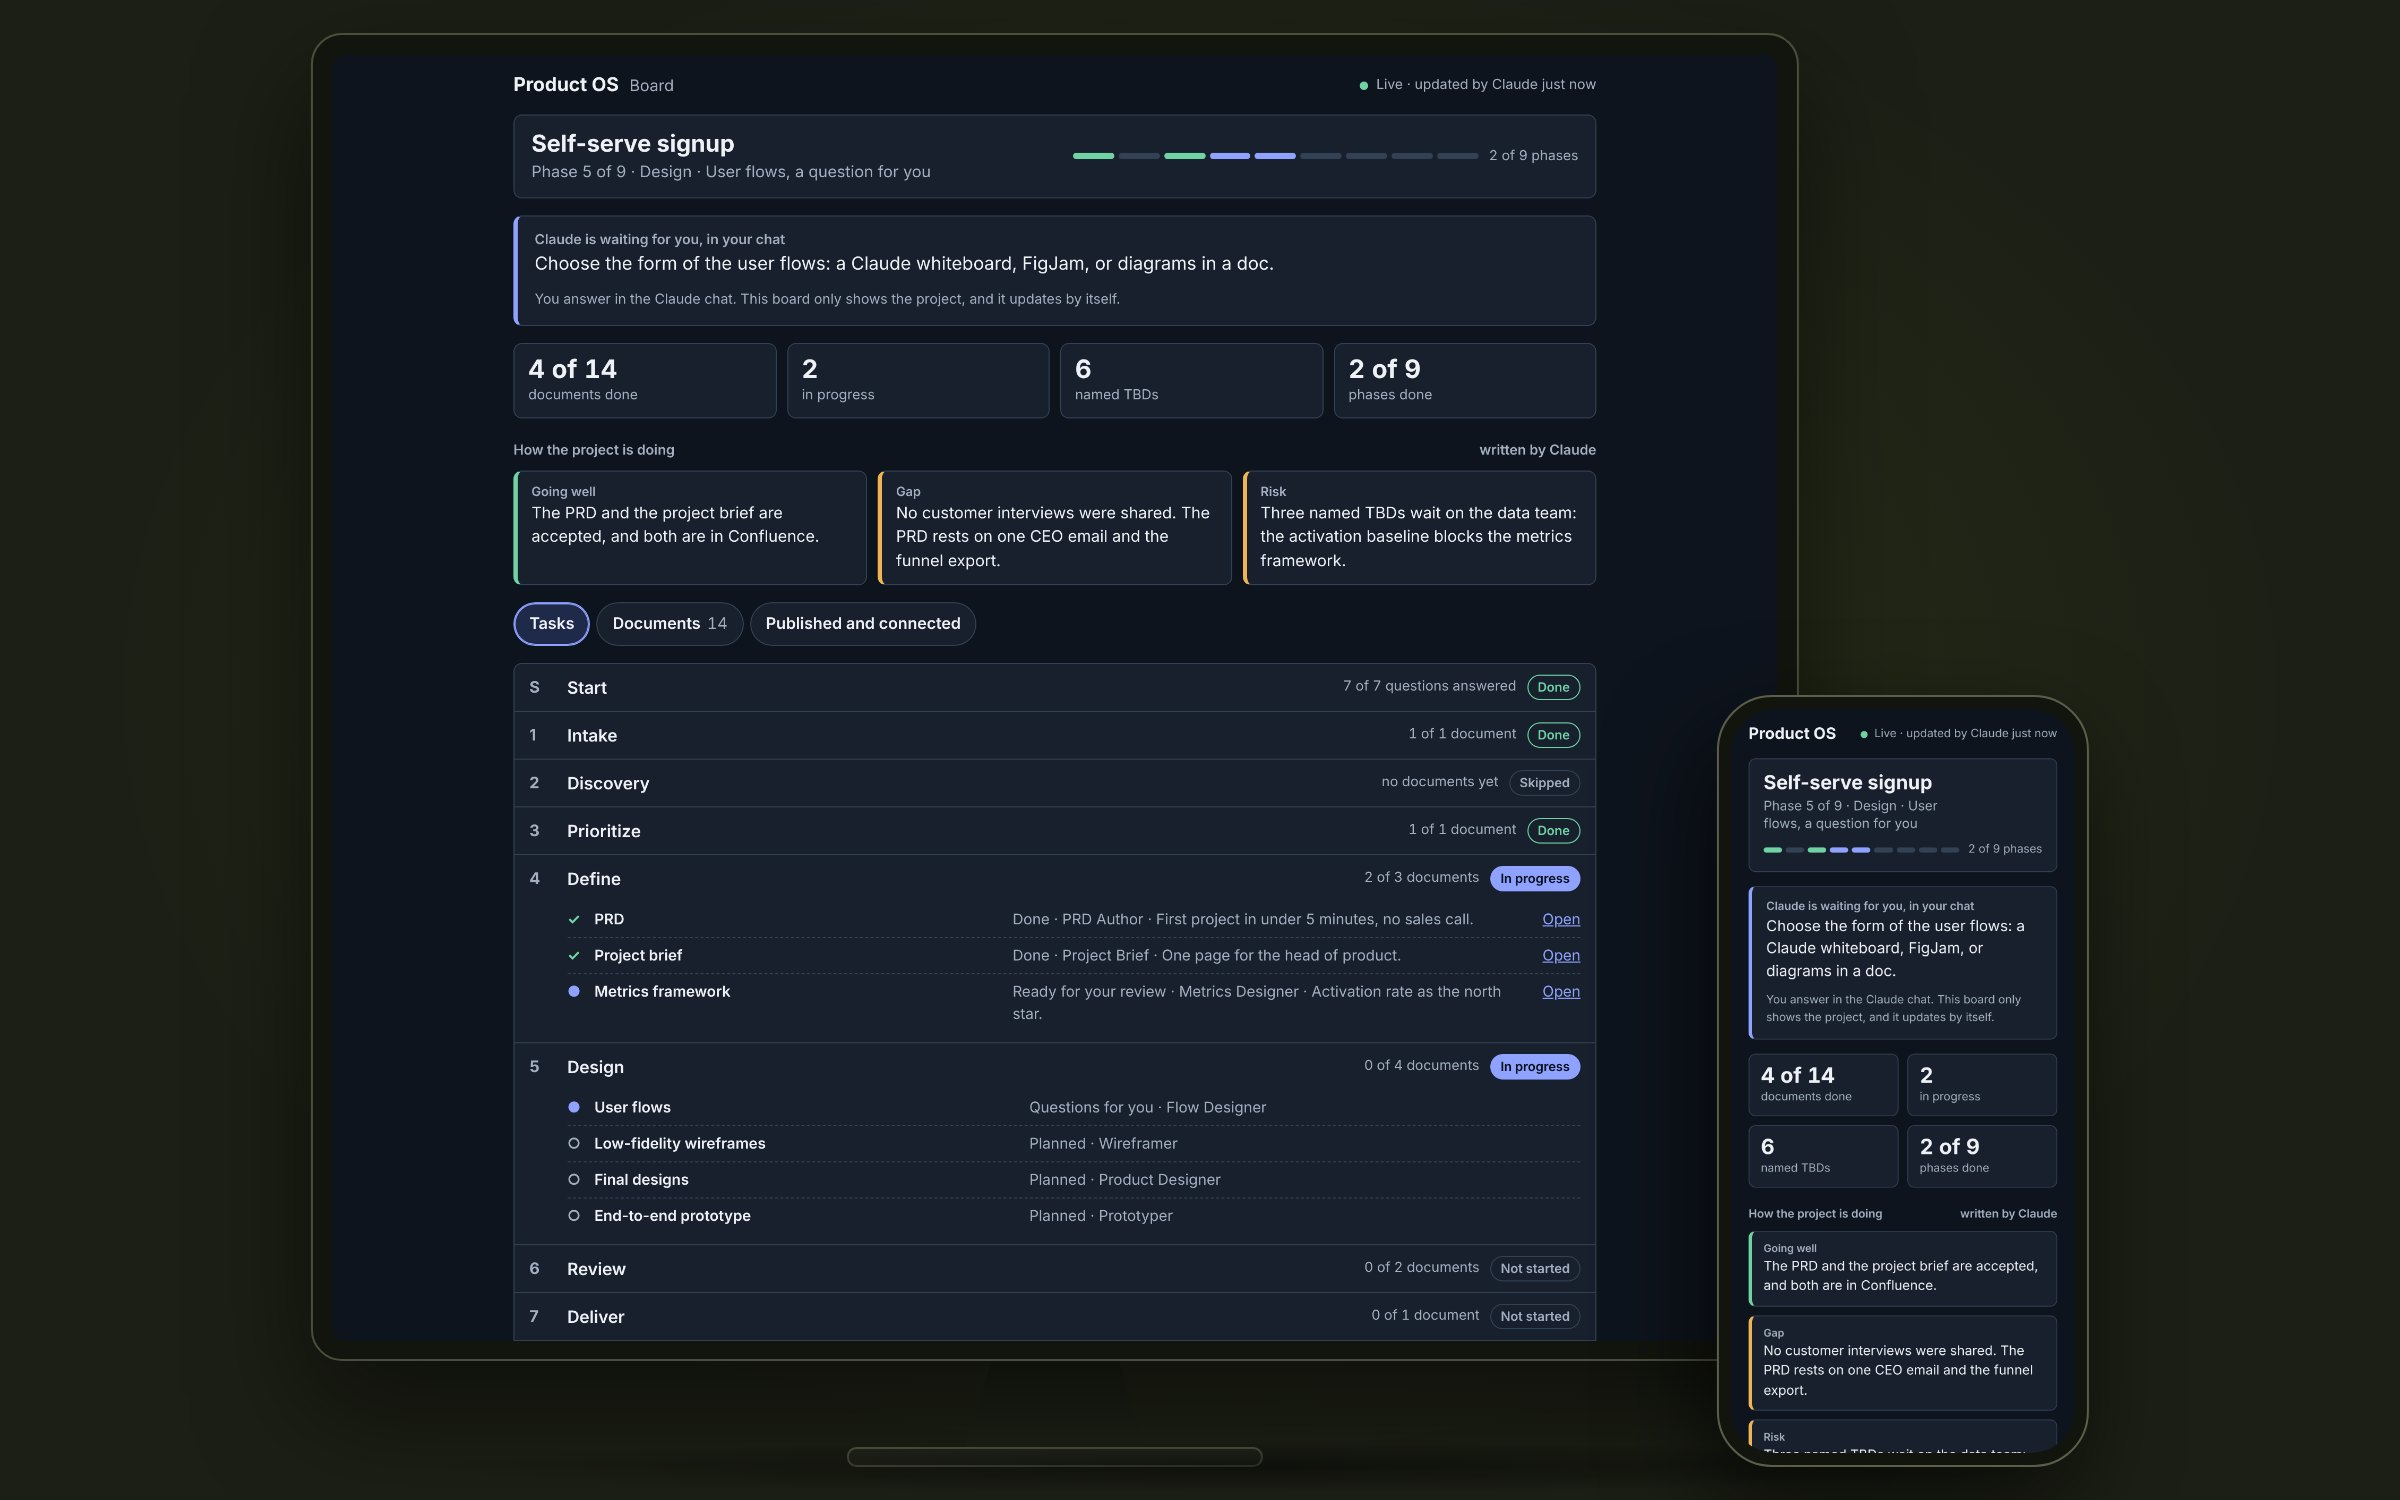
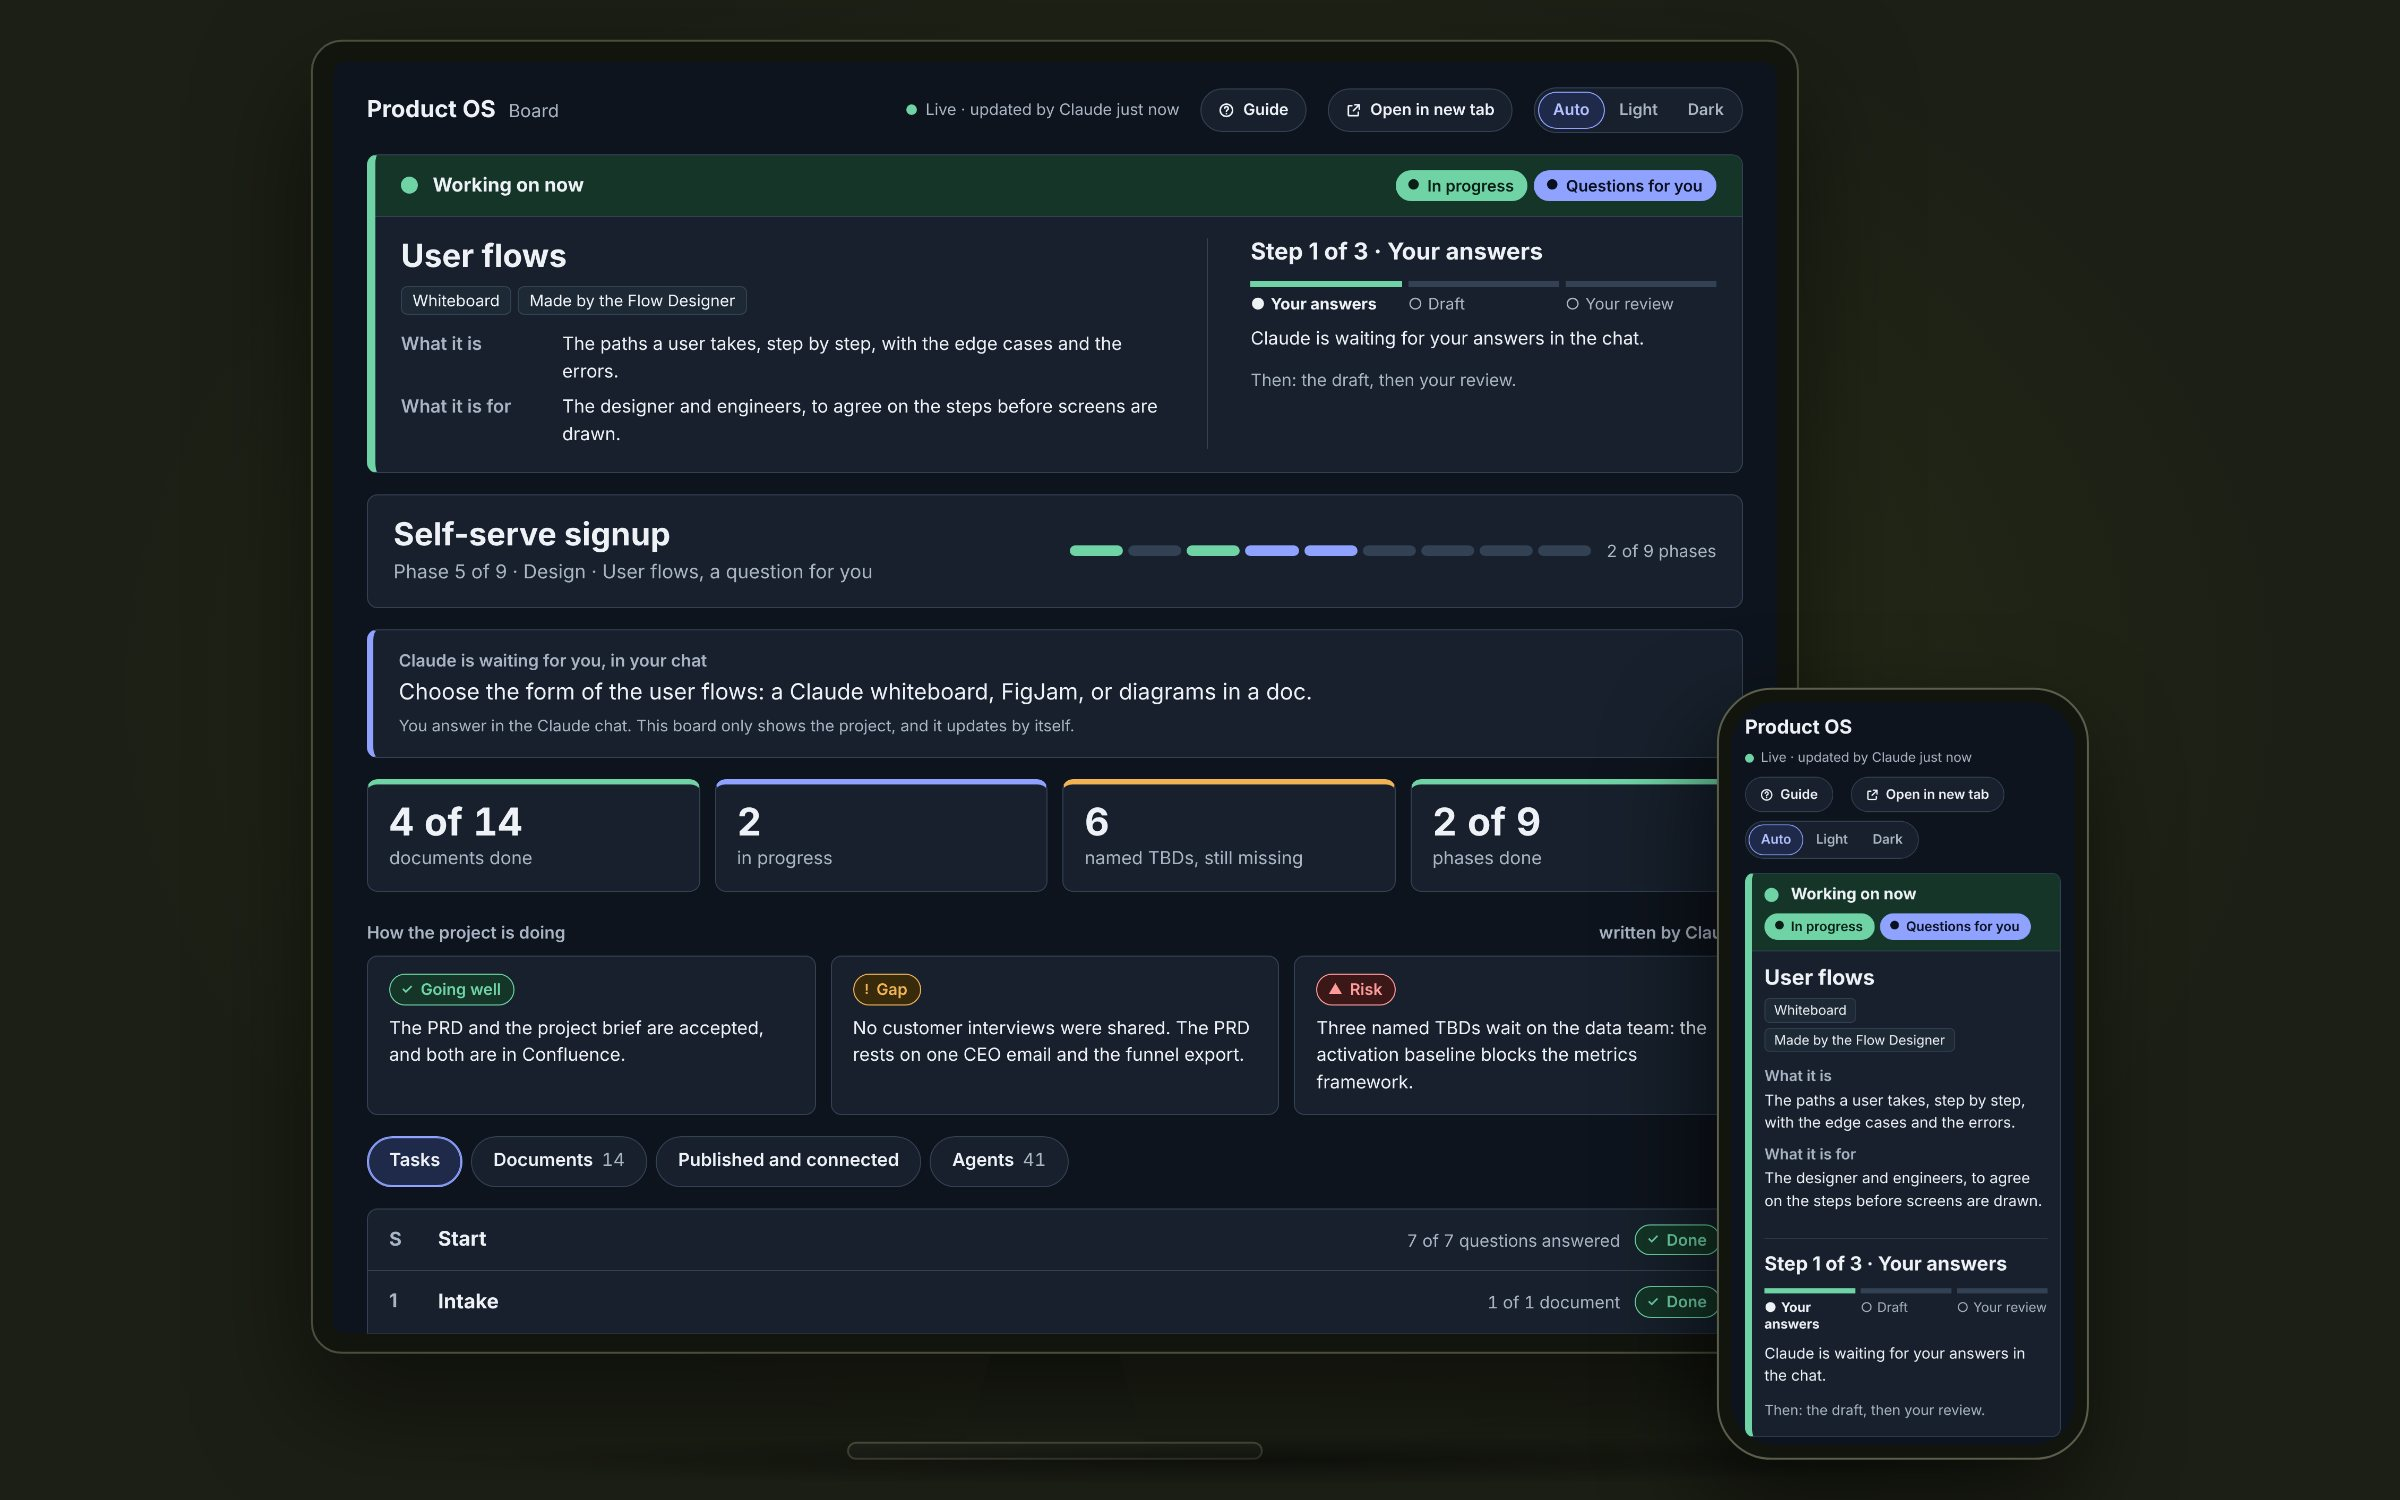
Docs: screenshots of the current board
The three README images show the board with the Working on now card,
the badges and the Guide button. The image descriptions match.

Claude-Session: https://claude.ai/code/session_015CywGHW2jcfc6hkS8RfYRh

diff --git a/README.md b/README.md
@@ -6,7 +6,7 @@
 
 Product OS™ 1.10.1 · Copyright © 2026 John De La Torre-Ugarte · Code and documents under the [MIT License](LICENSE) · [Name and brand](TRADEMARKS.md)
 
-![The Product OS board on a desktop screen and on a phone: where the project is, the next step, four numbers, three insights, and the nine phases with their status](docs/images/hero.jpg)
+![The Product OS board on a desktop screen and on a phone: the file being worked on now, where the project is, the next step, four numbers, three insights, and the start of the task list](docs/images/hero.jpg)
 
 *The Product OS board, on a computer and on a phone, with an example project. Claude runs the project in your chat and keeps this board up to date. Screenshots of `artifact/product-os-board.html`.*
 
@@ -136,7 +136,7 @@ The plugin is saved to your own account, with all 41 agents, 48 commands, 44 pla
 
 **The board**
 
-![The Product OS board: where the project is, the next step, four numbers, insights, and the Documents table with a link for every document](docs/images/visual-start.png)
+![The Product OS board with the Documents view open: the next step, four numbers, three insights, and the table of every document with its status, a link to open it, and where it is published](docs/images/visual-start.png)
 
 When the project has a name, Claude opens a board and keeps it up to date: where you are, the next step, the numbers, how the project is doing, every task, a table of every document with its link, what is published and what is connected. You only open it. More: [The Product OS board](artifact/README.md).
 

diff --git a/artifact/README.md b/artifact/README.md
@@ -4,7 +4,7 @@
 
 ## What It Shows
 
-![The Product OS board on a desktop screen and on a phone: where the project is, the next step, four numbers, three insights, and the nine phases with their status](../docs/images/hero.jpg)
+![The Product OS board on a desktop screen and on a phone: the file being worked on now, where the project is, the next step, four numbers, three insights, and the start of the task list](../docs/images/hero.jpg)
 
 1. **Working on now**: the file in hand, first on the board. What it is, what it is for, the step it is at, what is happening and what is left. A green dot marks a file in progress; the card also shows Paused, Blocked and Just finished.
 2. **How Product OS works**: a one-minute guide that opens from the Guide button at the top. Four steps, with three sections that open: how to get started, what the badges mean, and what you can say in your chat. It sits above the board until you press "Hide the guide".
